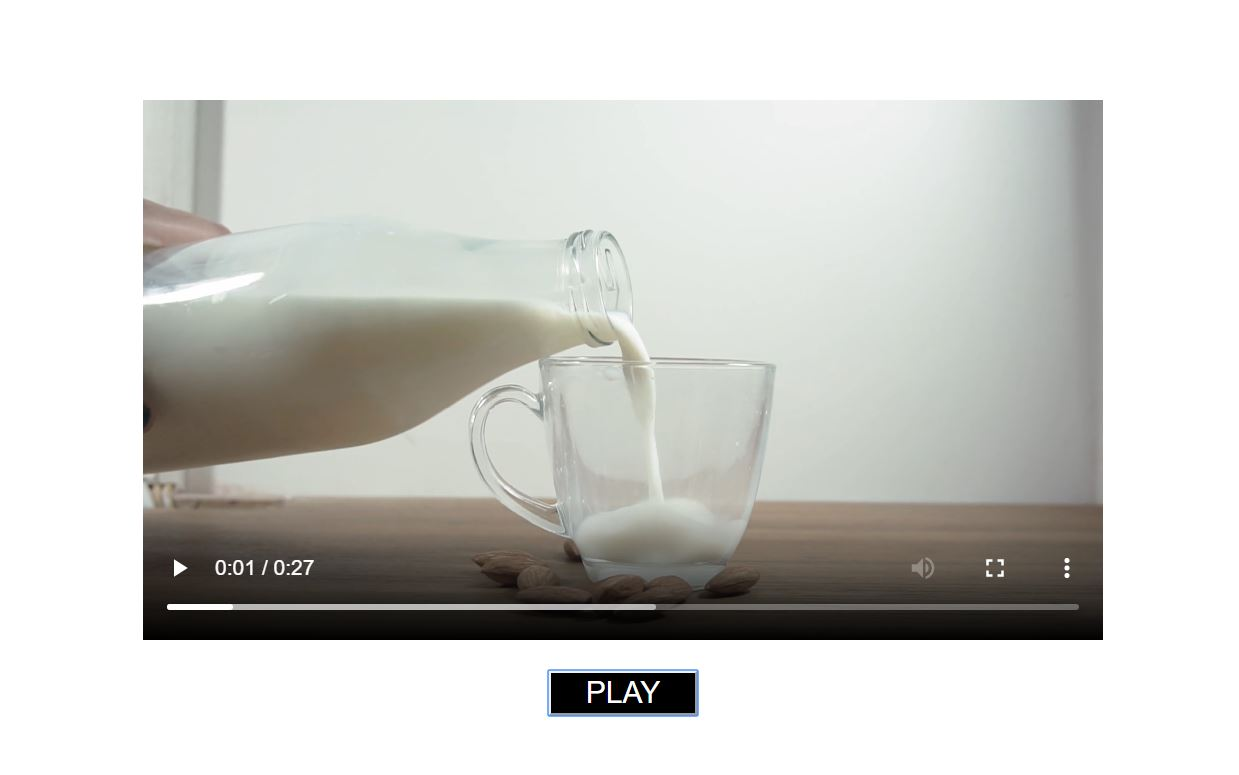
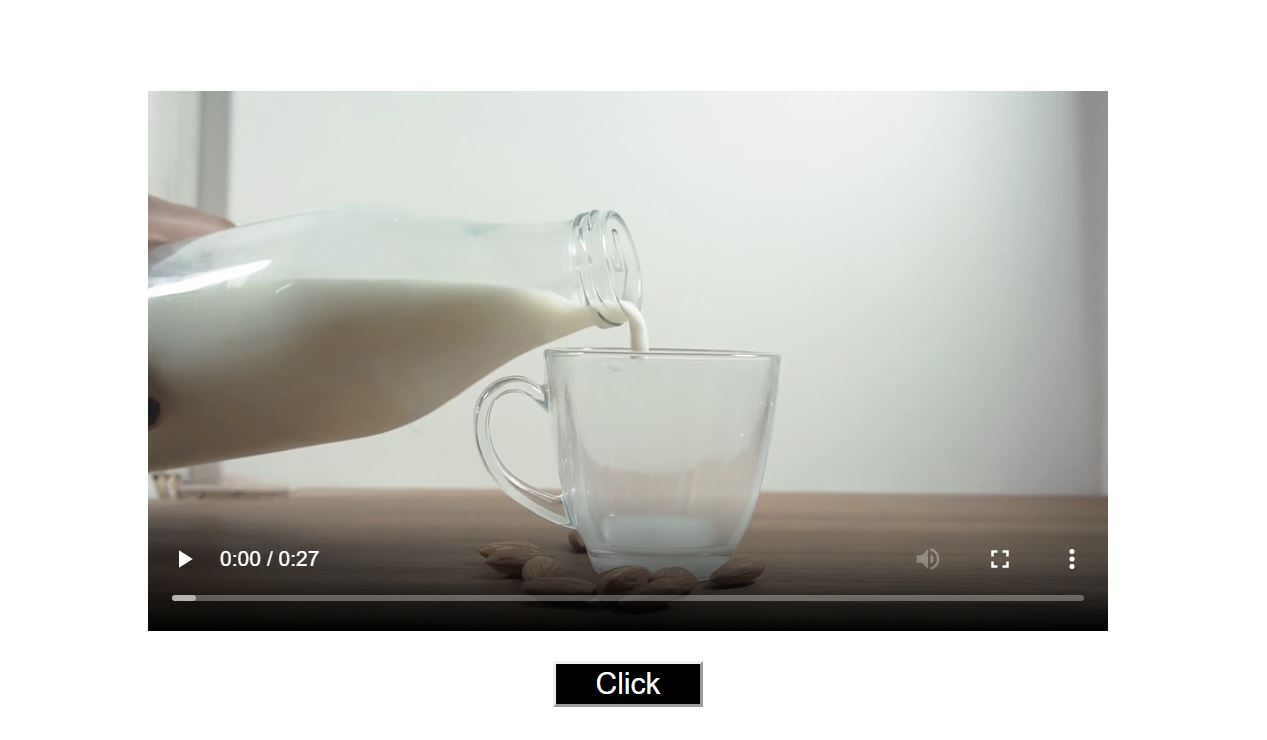
First video added to react context api blog post

diff --git a/content/posts/2020-02-25--React-Context-API.md b/content/posts/2020-02-25--React-Context-API.md
@@ -31,7 +31,7 @@ First, start a new React project using [create-react-app](https://github.com/fac
 
 Then let’s create all the components:
 
-**video-clip.component.js**
+**src/components/video-clip.component.js**
 
 ```jsx
 
@@ -54,7 +54,7 @@ const VideoClip = () => (
 export default VideoClip;
 ```
 
-**play-pause-button.component.js**
+**src/components/play-pause-button.component.js**
 
 ```jsx
 
@@ -74,7 +74,7 @@ const PlayPauseButton = () => <button style={styles}>Click</button>;
 export default PlayPauseButton;
 ```
 
-**controls.component.js**
+**src/components/controls.component.js**
 
 ```jsx
 
@@ -86,7 +86,7 @@ const Controls = () => <PlayPauseButton />;
 export default Controls;
 ```
 
-**App.js**
+**src/App.js**
 
 ```jsx
 
@@ -112,5 +112,96 @@ If we run the app (```npm start```), then we'll see just a video clip with contr
 ![start-creen](/posts/react-context/screen1.JPG)
 *video by https://pixabay.com/*
 
-Our goal is to control the playback of the video by clicking on the Click button.
+Our goal is to control the playback of the video by clicking on the Click button. For that, we need data about the video status (playing or paused) and a way to update this status by clicking on the button. And also we’d like to escape the “prop drilling”.
 
+In a typical React app, we would have a state object in the parent component (App.js) with a status property and a function for updating the status. This state would be passed-down to direct child components (VideoClip component and Controls component) via props, and then from Controls component further to PalyPauseButton component. Classical “prop-drilling”.
+
+Let’s use the help of the Context API.
+
+Create VideoContext with default status value as ‘paused’ and a default (empty) function for updating the status.
+
+**src/context/video.context.js**
+
+```jsx
+import React, { createContext } from 'react';
+
+const VideoContext = createContext({
+  status: 'paused',
+  togglePlayPause: () => {},
+});
+
+export default VideoContext;
+```
+
+Both VideoClip component and PlayPauseButton component must have access to the Video Context. As in React app, data should be passed top-down, we need to leverage the local state of the common ancestor component in order to simultaneously propagate changes into the context and into the child components. In our case the common ancestor is App.js.
+
+We'll add state to the App.js component by implementing ```useState``` Hook. The default value of the status must be the same as it's default value in the Video Context. And we’ll write the implementation of *togglePlayPause()* function:
+
+**src/App.js**
+
+```jsx
+import React, { useState} from 'react';
+
+...
+
+function App() {
+  const [status, setStatus] = useState('paused');
+  const togglePlayPause = () => setStatus(status === 'playing' ? 'paused' : 'playing');
+...
+}
+
+```
+
+In order for any child, grandchild, great-grandchild, and so on to have access to Video Context, we must wrap the parent element into VideoContext.Provider component, which will be used to pass the status and *togglePlayPause()* function via a *value* prop.
+
+**src/App.js**
+
+```jsx
+...
+import VideoContext from './context/video.context';
+...
+
+return (
+    <div className="App">
+      <VideoContext.Provider
+        value={{
+          status,
+          togglePlayPause,
+        }}
+      >
+        <VideoClip />
+        <Controls />
+      </VideoContext.Provider>
+    </div>
+  );
+...
+```
+
+To consume VideoContext we are going to use *useContext* Hook.
+
+**src/components/play-pause-button.component.js**
+
+```jsx
+import React, { useContext } from 'react';
+import VideoContext from '../context/video.context';
+...
+
+const PlayPauseButton = () => {
+  const { status, togglePlayPause } = useContext(VideoContext);
+  return (
+    <button style={styles} onClick={togglePlayPause}>
+      {status === 'playing' ? 'PAUSE' : 'PLAY'}
+    </button>
+  );
+};
+
+...
+```
+
+Thus by clicking on the button we are toggling playing and paused value of the status prop and also dynamically changing the title of the button. We can see it in the browser:
+
+<video autoplay loop controls>
+  <source src="/react-context/clip1.mp4" type="video/mp4">
+</video>
+
+But we still don’t control the playback of the video clip. Let’s fix this!
